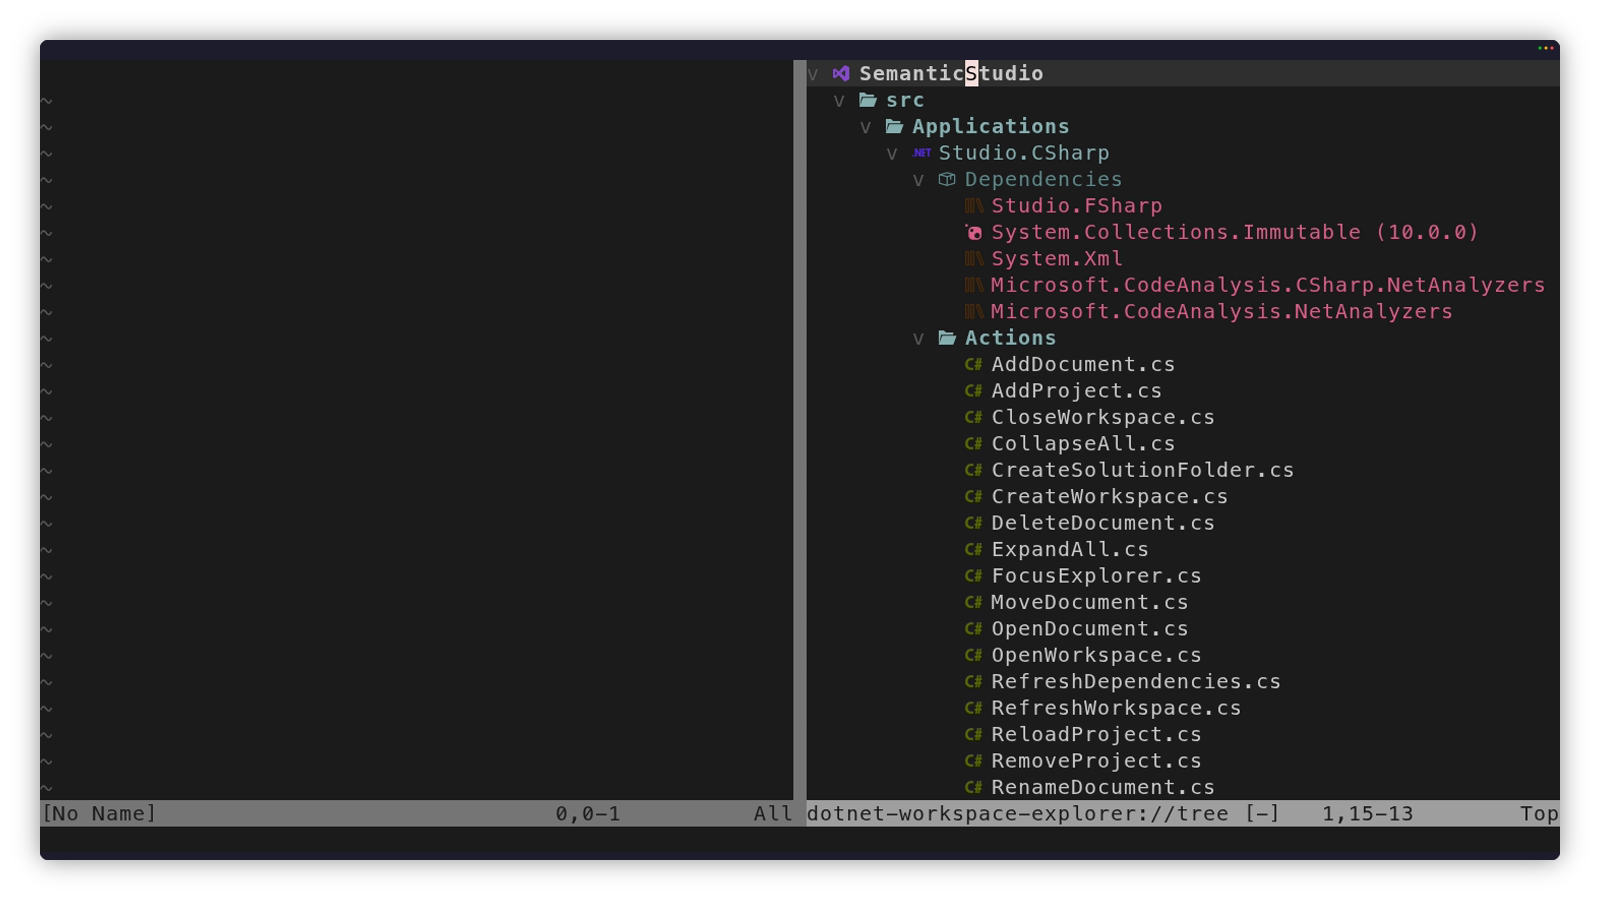
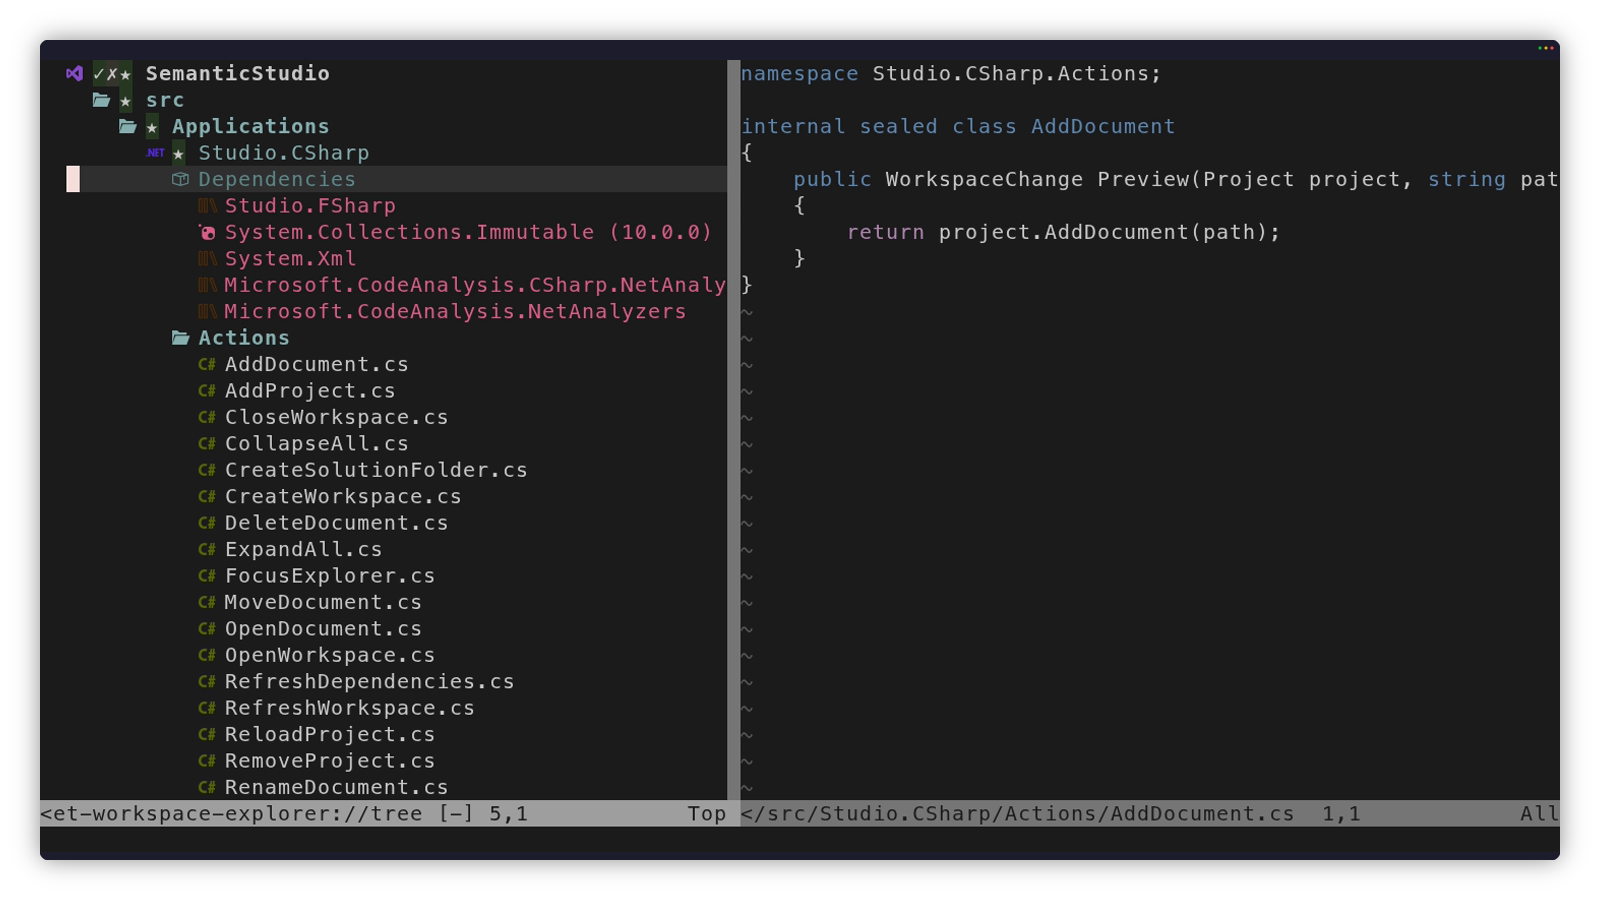
docs: revamp the plugin showcase

Changed region(s): [[0.0, 0.0622, 0.9688, 0.9333], [0.0312, 0.1867, 0.0625, 0.2178]]

diff --git a/README.md b/README.md
@@ -1,135 +1,137 @@
 <div align="center">
 
-<img src="docs/assets/dotnet-workspace-explorer.svg" width="128" alt="Explorer logo">
+<img src="docs/assets/dotnet-workspace-explorer.svg"
+     width="128"
+     alt="dotnet-workspace-explorer.nvim logo">
 
 # dotnet-workspace-explorer.nvim
 
 **A Visual Studio-inspired .NET solution explorer for Neovim.**
 
 <a href="#status">
-<img alt="Experimental" src="https://img.shields.io/badge/status-experimental-f59e0b">
+  <img src="https://img.shields.io/badge/status-experimental-f5a97f"
+       alt="Experimental status">
 </a>
-<a href="#quick-start">
-<img alt="Neovim 0.12+" src="https://img.shields.io/badge/Neovim-0.12%2B-57A143?logo=neovim">
+<a href="https://neovim.io/">
+  <img src="https://img.shields.io/badge/Neovim-0.12%2B-57A143?logo=neovim"
+       alt="Neovim 0.12 or newer">
 </a>
-<a href="https://github.com/alsi-lawr/dotnet-workspace-explorer">
-<img alt=".NET core" src="https://img.shields.io/badge/core-.NET-512bd4?logo=dotnet">
+<a href="https://www.nuget.org/packages/ALSI.WorkspaceExplorer">
+  <img src="https://img.shields.io/nuget/v/ALSI.WorkspaceExplorer?label=core"
+       alt="NuGet core version">
 </a>
 <a href="LICENSE">
-<img alt="MIT" src="https://img.shields.io/badge/license-MIT-22c55e">
+  <img src="https://img.shields.io/badge/license-MIT-blue"
+       alt="MIT licence">
 </a>
 
 </div>
 
-See your .NET solution the way it was organised, not flattened into a generic file browser. Browse
-projects, solution folders, source files, references, and NuGet packages across C#, F#, and Visual
-Basic in a familiar, fully scrollable tree.
+Browse .NET solutions as solutions: solution folders, projects, files, dependencies, package and
+assembly versions, and Git state across C#, F#, and Visual Basic.
 
 <div align="center">
 
-<img src="docs/assets/explorer.webp" alt=".NET solution explorer in Neovim">
+<img src="docs/assets/explorer.webp"
+     alt="The explorer navigating a multi-project .NET solution">
 
 </div>
 
-## Quick start
+## Requirements
 
-You need Neovim 0.12+ and the
-[`Dotnet.WorkspaceExplorer`](https://github.com/alsi-lawr/dotnet-workspace-explorer) tool:
+- Neovim 0.12 or newer
+- [`dotnet-we`](https://github.com/alsi-lawr/dotnet-workspace-explorer)
+- [`nvim-web-devicons`](https://github.com/nvim-tree/nvim-web-devicons), if you want file icons
 
-```console
-dotnet tool install --global Dotnet.WorkspaceExplorer
+## Install
+
+Install the core with Nix:
+
+```sh
+nix profile install github:alsi-lawr/dotnet-workspace-explorer
 ```
 
-The installed command is `dotnet-we`. The
-[getting-started guide](../../wiki/Getting-Started) also covers source builds.
+Or install it from NuGet:
 
-With [lazy.nvim](https://github.com/folke/lazy.nvim):
+```sh
+dotnet tool install --global ALSI.WorkspaceExplorer
+```
+
+Then install the plugin. With
+[`lazy.nvim`](https://github.com/folke/lazy.nvim):
 
 ```lua
 {
-	"alsi-lawr/dotnet-workspace-explorer.nvim",
-	dependencies = {
-		"nvim-tree/nvim-web-devicons",
-	},
-	config = function()
-		require("nvim-web-devicons").setup()
-		require("dotnet-workspace-explorer").setup({
-			presentation = {
-				devicons = true,
-			},
-		})
-	end,
+  "alsi-lawr/dotnet-workspace-explorer.nvim",
+  dependencies = {
+    "nvim-tree/nvim-web-devicons",
+  },
+  opts = {
+    position = "left", -- "left" or "right"
+    width = 50,
+    presentation = {
+      devicons = true,
+    },
+  },
 }
 ```
 
-Open the solution selected from the current directory:
+The plugin starts `dotnet-we workspace <target> --pipe`. No extra command setting is needed when
+`dotnet-we` is on your `PATH`.
+
+## Open a workspace
 
 ```vim
-:DotnetWorkspaceExplorerOpen
+:DotnetWorkspaceExplorerToggle
+:DotnetWorkspaceExplorerOpen /path/to/MySolution.slnx
 ```
 
-Or pass a specific `.sln`, `.slnx`, or read-only `.slnf` target:
+Without a path, the explorer looks for a solution or project in the current directory.
 
-```vim
-:DotnetWorkspaceExplorerOpen /path/to/Demo.slnx
-```
+## Key actions
 
-The explorer opens on the left by default. Use `<CR>` to expand or collapse containers and open
-files in the previous editor window. Use `e` to edit a project file, `r` to rename, `m` or `c` to
-mark nodes for a move or copy, and `p` to place the marked batch. `E` expands the complete solution
-and `W` collapses it. The existing `l`, `h`, `a`, `d`, `R`, and `q` mappings expand, collapse,
-create, delete, refresh, and close. Dependencies expand into compact, read-only Visual
-Studio-inspired reference properties, including available package and assembly versions.
+| Key | Action |
+| --- | --- |
+| `<CR>` or `l` | Open or expand |
+| `h` | Collapse |
+| `a` | Add a file, directory, project, or solution item |
+| `e` | Open a project file |
+| `r` | Rename |
+| `m`, then `p` | Move and place |
+| `c`, then `p` | Copy and paste |
+| `d` | Delete |
+| `E` / `W` | Expand all / collapse all |
+| `R` | Refresh |
+| `q` | Close |
 
-New includes logical Solution Folders where the selected context supports them. Add Existing opens
-a temporary core-backed selector in the same drawer: `<CR>` expands or collapses directories and
-confirms from a file row, Space marks eligible files or whole directories, and `q` or Escape
-cancels. The semantic tree returns with its mappings and semantic selection restored; cancellation
-leaves it unchanged.
+Actions are also available as commands, so every mapping can be changed or removed.
 
-Every action is also available through its `DotnetWorkspaceExplorer*` command and public Lua
-function. Mappings can be replaced or disabled individually; `clear_marks` and `git_refresh` have
-no default key.
+## Why use it?
 
-Git decorations are enabled by default. Disable them when a session does not need repository state:
-
-```lua
-require("dotnet-workspace-explorer").setup({
-	git = {
-		enable = false,
-	},
-})
-```
-
-After changing Git configuration for an open explorer, run `:DotnetWorkspaceExplorerRefresh` to
-negotiate a fresh session. Theme-linked glyphs distinguish staged `✓`, unstaged `✗`, renamed `➜`,
-deleted ``, unmerged ``, untracked `★`, and ignored `◌` state before each affected name. Status
-updates are event-driven, and `:DotnetWorkspaceExplorerGitRefresh` requests one explicitly.
-
-## Why this explorer
-
-- **Solution-aware:** the .NET core owns the hierarchy rather than asking Lua to infer it.
-- **Theme-native:** semantic highlights follow the active colorscheme; Devicons are optional.
-- **Editor-native:** the explorer is an ordinary split with normal Neovim scrolling and movement.
-- **Mutation-safe:** creation, deletion, rename, and marked move/copy batches are fully previewed,
-  explicitly confirmed, and applied by the core.
+- See solution folders and project structure rather than a flat file tree.
+- Inspect project, package, framework, assembly, and project-reference dependencies.
+- Keep the current selection and expanded branches while the workspace changes.
+- Use the same explorer across C#, F#, and Visual Basic solutions.
 
 ## Documentation
 
-- [Getting started](../../wiki/Getting-Started)
-- [Configuration](../../wiki/Configuration)
-- [Commands and mappings](../../wiki/Commands-and-Mappings)
-- [Recovery and limitations](../../wiki/Recovery-and-Limitations)
+- [Getting started][getting-started]
+- [Configuration][configuration]
+- [Commands and mappings][commands]
+- [Recovery and limitations][r]
 
 ## Status
 
-The plugin is experimental and does not yet have a tagged release.
+The plugin is experimental and has no tagged release yet. Commands and configuration may change
+before the first release.
 
-## Contributing
+See [CONTRIBUTING.md](CONTRIBUTING.md) for development, testing, and showcase capture instructions.
 
-See [CONTRIBUTING.md](CONTRIBUTING.md) for the development shell, checks, repository boundaries, and
-visual-capture workflow.
+## Licence
 
-## License
+[MIT](LICENSE)
 
-MIT. See [LICENSE](LICENSE).
+[getting-started]: https://github.com/alsi-lawr/dotnet-workspace-explorer.nvim/wiki/Getting-Started
+[configuration]: https://github.com/alsi-lawr/dotnet-workspace-explorer.nvim/wiki/Configuration
+[commands]: https://github.com/alsi-lawr/dotnet-workspace-explorer.nvim/wiki/Commands-and-Mappings
+[r]: https://github.com/alsi-lawr/dotnet-workspace-explorer.nvim/wiki/Recovery-and-Limitations

diff --git a/CONTRIBUTING.md b/CONTRIBUTING.md
@@ -60,12 +60,11 @@ The selector probe covers the transient Add Existing protocol, opaque paging, wh
 file marks, latest-wins overlap, modal mapping restoration, callback invalidation, action routing,
 semantic-state restoration, and optional Devicons states.
 
-After creating a disposable fixture under `.agent-workspace`, the bounded real-core probe accepts
-explicit paths:
+The bounded real-core probe accepts explicit paths to a disposable fixture:
 
 ```sh
-DWE_CORE=/path/to/Dotnet.WorkspaceExplorer \
-DWE_FIXTURE="$PWD/.agent-workspace/real-core/fixture/SemanticStudio.slnx" \
+DWE_CORE=/path/to/dotnet-we \
+DWE_FIXTURE="${TMPDIR:-/tmp}/dwe-real-core/fixture/SemanticStudio.slnx" \
 nvim -u NONE -i NONE --noplugin --headless \
   --cmd "set runtimepath^=$PWD" -l tests/real-core-smoke.lua
 ```
@@ -90,23 +89,22 @@ The retained explorer assets use the real Release core, an explicit `nvim-web-de
 and the repository owner's VHS fork:
 
 ```sh
-docs/vhs/make-fixture.sh
-dotnet build ../dotnet-workspace-explorer/Dotnet.WorkspaceExplorer.slnx \
-  --configuration Release --no-restore
-mkdir -p .agent-workspace/visual
+capture_root="${TMPDIR:-/tmp}/dwe-nvim-showcase"
+DWE_CAPTURE_ROOT="$capture_root" docs/vhs/make-fixture.sh
+mkdir -p "$capture_root"
+nix build github:alsi-lawr/dotnet-workspace-explorer \
+  --out-link "$capture_root/core"
 plugin_root="$PWD"
-(cd ../vhs && go build -o "$plugin_root/.agent-workspace/visual/vhs" .)
+(cd ../vhs && go build -o "$capture_root/vhs" .)
 
-core="$PWD/../dotnet-workspace-explorer/src/WorkspaceExplorer/bin/Release/net10.0"
-DWE_CORE="$core/Dotnet.WorkspaceExplorer" \
-  DWE_FIXTURE="$PWD/.agent-workspace/visual/fixture/SemanticStudio.slnx" \
+DWE_CORE="$capture_root/core/bin/dotnet-we" \
+  DWE_FIXTURE="$capture_root/fixture/SemanticStudio.slnx" \
   DWE_DEVICONS="$HOME/.local/share/nvim/lazy/nvim-web-devicons" \
   VHS_NO_SANDBOX=1 \
-  .agent-workspace/visual/vhs --capture-mode=webgl docs/vhs/explorer.tape
+  "$capture_root/vhs" --capture-mode=webgl docs/vhs/explorer.tape
 ```
 
-If the core checkout uses a different directory, update the two core paths. Keep generated fixtures
-and capture binaries under `.agent-workspace`; only the final PNG and WebP belong in `docs/assets`.
+Only the final PNG and WebP belong in `docs/assets`.
 
 ## Pull requests
 
